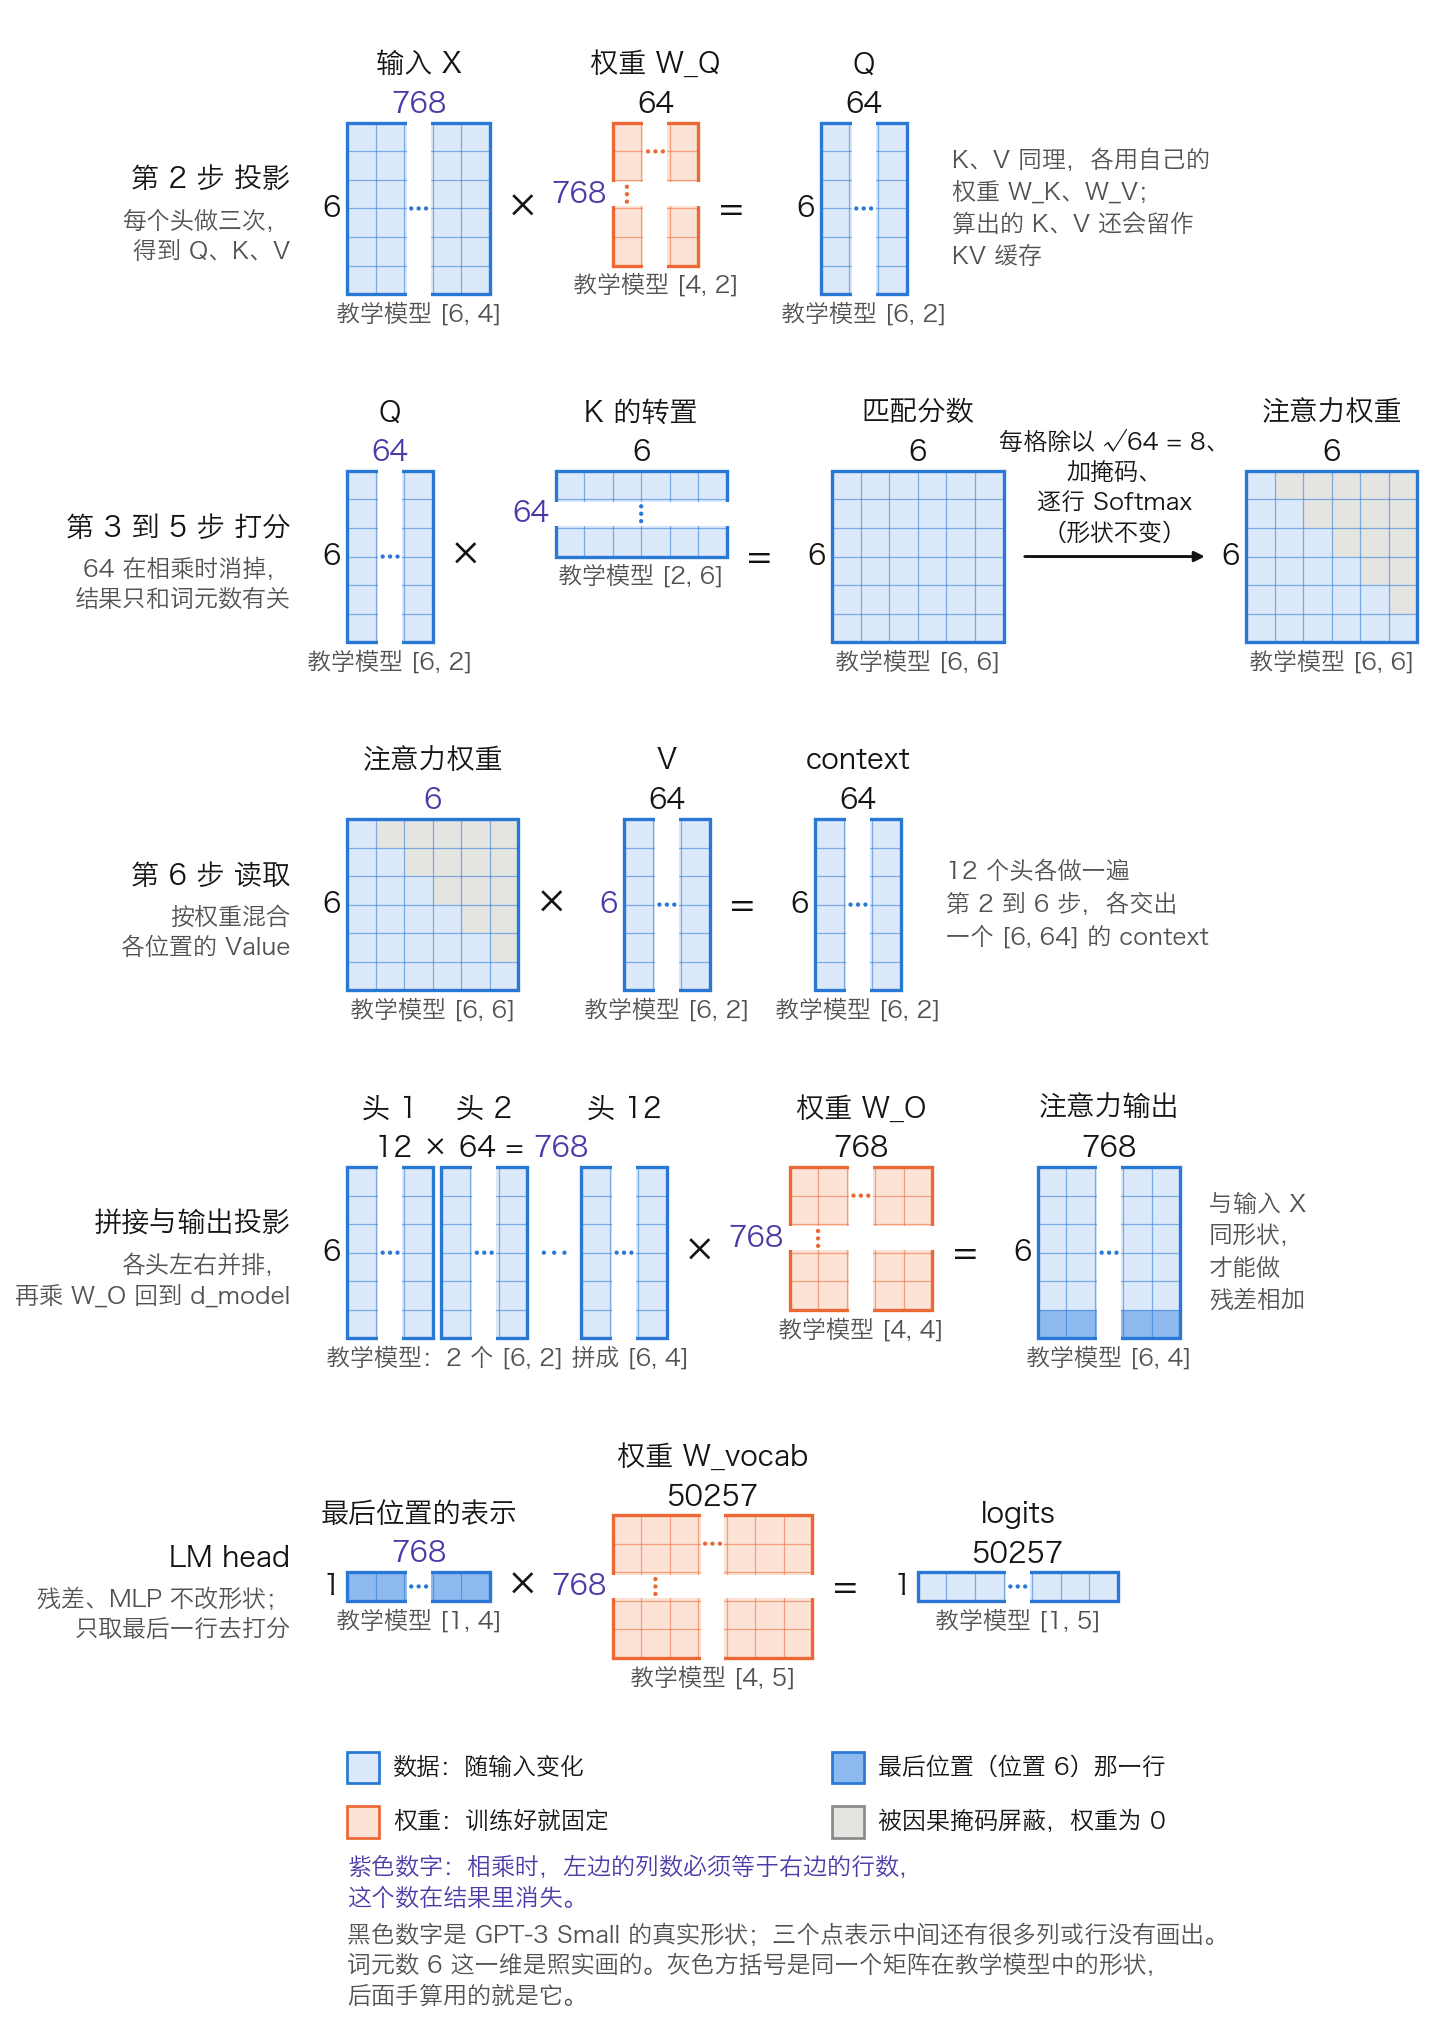
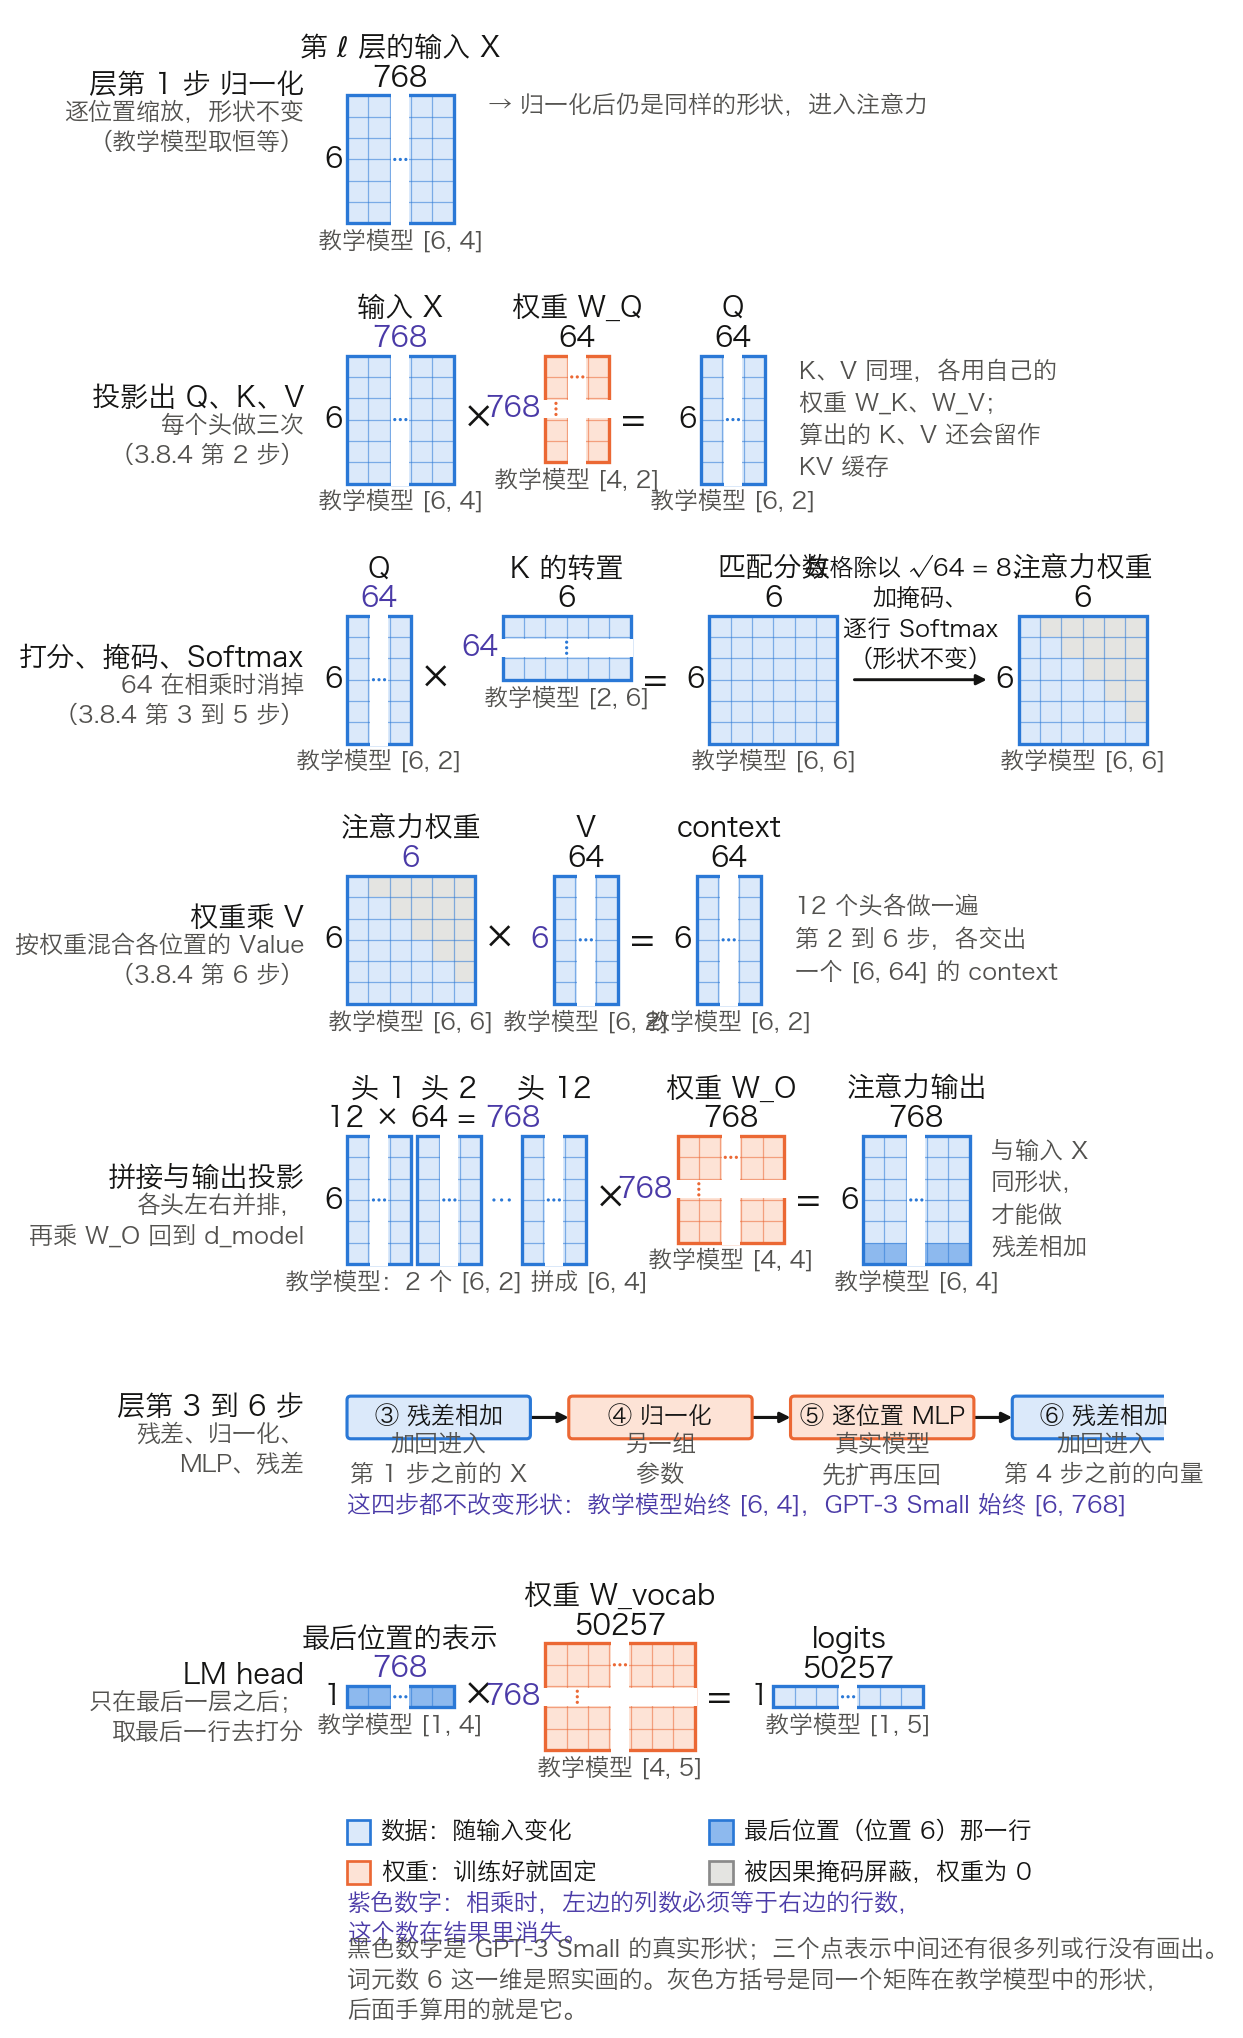
docs(llm): make figure 3-13 cover all six layer steps
The shape figure only drew the attention sublayer and labelled its
actions with the hand-calculation step numbers, so it no longer lined
up with the six-step list above it. Add the leading normalisation and
the four steps that follow attention, and name the actions as the list
does, keeping the hand-calculation number as a parenthetical.

Also fix the two sublayer headings in the shape list, which lacked a
preceding blank line and were being absorbed into the previous list
item.

diff --git a/tools/figures/attention_shape_flow.py b/tools/figures/attention_shape_flow.py
@@ -17,8 +17,8 @@ from dataclasses import dataclass
 import matplotlib.pyplot as plt
 from matplotlib.patches import Circle, Polygon, Rectangle
 
-from _diagram import (ACCENT as MATCH, DATA_EDGE, DATA_FACE, DATA_STRONG as LAST_ROW_FACE,
-                      INK, MASK_FACE, MUTED, WEIGHT_EDGE, WEIGHT_FACE)
+from _diagram import (ACCENT, ACCENT as MATCH, DATA_EDGE, DATA_FACE, DATA_STRONG as LAST_ROW_FACE,
+                      INK, MASK_FACE, MUTED, WEIGHT_EDGE, WEIGHT_FACE, arrow, box, label)
 from _style import image_path, use_cjk_font
 
 OUTPUT = image_path("03_components", "attention_shape_flow.png")
@@ -164,9 +164,16 @@ def main() -> None:
     c = Canvas(ax)
     x0 = X0
 
-    # ---- 第 2 步：投影 ----
+    # ---- 层第 1 步：归一化 ----
     top = 0.0
-    c.step(top, 6, "第 2 步 投影", "每个头做三次，\n得到 Q、K、V")
+    c.step(top, 1, "层第 1 步 归一化", "逐位置缩放，形状不变\n（教学模型取恒等）")
+    x = c.matrix(x0, top, T6, D_MODEL, "第 $\\ell$ 层的输入 X", "教学模型 [6, 4]")
+    label(ax, x + 1.6, top - 0.5, "→ 归一化后仍是同样的形状，进入注意力", ha="left",
+          fontsize=FS_NOTE, color=MUTED)
+    top -= 6 + ROW_GAP
+
+    # ---- 层第 2 步（内部）：投影 ----
+    c.step(top, 6, "投影出 Q、K、V", "每个头做三次\n（3.8.4 第 2 步）")
     x = c.matrix(x0, top, T6, D_MODEL, "输入 X", "教学模型 [6, 4]", match_cols=True)
     x = c.op(x, top, 6, "×")
     x = c.matrix(x, top, D_MODEL, D_HEAD, "权重 W_Q", "教学模型 [4, 2]",
@@ -177,7 +184,7 @@ def main() -> None:
 
     # ---- 第 3 到 5 步：打分、掩码、Softmax ----
     top -= 6 + ROW_GAP
-    c.step(top, 6, "第 3 到 5 步 打分", "64 在相乘时消掉，\n结果只和词元数有关")
+    c.step(top, 6, "打分、掩码、Softmax", "64 在相乘时消掉\n（3.8.4 第 3 到 5 步）")
     x = c.matrix(x0, top, T6, D_HEAD, "Q", "教学模型 [6, 2]", match_cols=True)
     x = c.op(x, top, 6, "×")
     x = c.matrix(x, top, D_HEAD, T6, "K 的转置", "教学模型 [2, 6]", match_rows=True)
@@ -189,7 +196,7 @@ def main() -> None:
 
     # ---- 第 6 步：读取 Value ----
     top -= 6 + ROW_GAP
-    c.step(top, 6, "第 6 步 读取", "按权重混合\n各位置的 Value")
+    c.step(top, 6, "权重乘 V", "按权重混合各位置的 Value\n（3.8.4 第 6 步）")
     x = c.matrix(x0, top, T6, T6, "注意力权重", "教学模型 [6, 6]",
                  lower_tri=True, match_cols=True)
     x = c.op(x, top, 6, "×", gap_after=3.7)
@@ -220,9 +227,27 @@ def main() -> None:
                  highlight_last_row=True)
     c.note(x + 1.0, top - 3, "与输入 X\n同形状，\n才能做\n残差相加")
 
-    # ---- LM head ----
+    # ---- 层第 3 到 6 步：残差、归一化、MLP、残差 ----
     top -= 6 + ROW_GAP
-    c.step(top, 5, "LM head", "残差、MLP 不改形状；\n只取最后一行去打分")
+    c.step(top, 3, "层第 3 到 6 步", "残差、归一化、\nMLP、残差")
+    bw, gap = 8.6, 1.8
+    steps = [("③ 残差相加", "加回进入\n第 1 步之前的 X", "data"),
+             ("④ 归一化", "另一组\n参数", "weight"),
+             ("⑤ 逐位置 MLP", "真实模型\n先扩再压回", "weight"),
+             ("⑥ 残差相加", "加回进入\n第 4 步之前的向量", "data")]
+    bx = x0
+    for k, (name, note, kind) in enumerate(steps):
+        box(ax, bx, top - 2.0, bw, 2.0, name, kind, fontsize=FS_NOTE)
+        label(ax, bx + bw / 2, top - 3.0, note, fontsize=FS_TOY, color=MUTED, linespacing=1.4)
+        if k < len(steps) - 1:
+            arrow(ax, (bx + bw, top - 1.0), (bx + bw + gap, top - 1.0))
+        bx += bw + gap
+    label(ax, x0, top - 5.1, "这四步都不改变形状：教学模型始终 [6, 4]，GPT-3 Small 始终 [6, 768]",
+          ha="left", fontsize=FS_NOTE, color=ACCENT)
+
+    # ---- LM head ----
+    top -= 5.4 + ROW_GAP
+    c.step(top, 5, "LM head", "只在最后一层之后；\n取最后一行去打分")
     x = c.matrix(x0, top - 2, ONE, D_MODEL, "最后位置的表示", "教学模型 [1, 4]",
                  highlight_last_row=True, match_cols=True)
     x = c.op(x, top, 5, "×")

diff --git a/03_components/3.8_gpt_inference_flow.md b/03_components/3.8_gpt_inference_flow.md
@@ -119,11 +119,11 @@
 - **Q/K/V 的投影矩阵因此不是方阵**，形状是 `[d_model, d_h]`：本节是 `[4, 2]`，GPT-3 Small 是 `[768, 64]`。各头的结果拼接后回到 `n_h × d_h = d_model` 维。
 - **`n_kv` 可以小于 `n_h`。** Llama 3 8B 让 32 个 Query 头共用 8 组 K/V，这就是 GQA（见 [3.7 节](3.7_full_architecture.md)），首次阅读可跳过；本节取 `n_kv = n_h = 2`，每个头各有自己的 K/V。
 
-**先只看形状，不看数字。** 进入手算之前，先把全程走一遍，只盯着每个矩阵是几行几列。图 3-13 按 GPT-3 Small 的真实形状来画（`d_model = 768`，12 个头，每头 `d_h = 64`，词表 50,257）：词元数 6 这一维照实画出，所以 `[6, 6]` 的分数矩阵和因果掩码的阶梯是完整的；768、64、50257 这些太大的维度用省略号截断。每个矩阵下方的灰色方括号，是它在教学模型里的形状，后面手算用的就是这一组小数字。
+**先只看形状，不看数字。** 进入手算之前，先把六步走一遍，只盯着每个矩阵是几行几列。图 3-13 与表 3-16 同序：第 1 步归一化在最上，第 2 步注意力占中间四行，第 3 到 6 步并排在下方，最后是只在末层才做的 LM head。图按 GPT-3 Small 的真实形状来画（`d_model = 768`，12 个头，每头 `d_h = 64`，词表 50,257）：词元数 6 这一维照实画出，所以 `[6, 6]` 的分数矩阵和因果掩码的阶梯是完整的；768、64、50257 这些太大的维度用省略号截断。每个矩阵下方的灰色方括号，是它在教学模型里的形状，后面手算用的就是这一组小数字。
 
 ![一层注意力计算中各矩阵的形状变化](_images/attention_shape_flow.png)
 
-图 3-13：一层注意力计算中，各矩阵的形状怎样一步步变化；黑色和紫色数字是 GPT-3 Small 的形状，其中紫色是相乘时消掉的那一维，灰色方括号是教学模型的形状（[生成脚本](https://github.com/yeasy/llm_internals/blob/main/tools/figures/attention_shape_flow.py)）。蓝色的数据矩阵里，第 i 行对应位置 i，最后一行对应 Prompt 的最后位置 6（“K 的转置”例外，它是列对应位置）；橙色的权重矩阵里，行对应输入向量的各维。context 指每个位置“读到的上下文向量”，3.8.4 的第 6 步给出定义。
+图 3-13：一层计算中各矩阵的形状怎样一步步变化，自上而下就是表 3-16 的六步；黑色和紫色数字是 GPT-3 Small 的形状，其中紫色是相乘时消掉的那一维，灰色方括号是教学模型的形状（[生成脚本](https://github.com/yeasy/llm_internals/blob/main/tools/figures/attention_shape_flow.py)）。蓝色的数据矩阵里，第 i 行对应位置 i，最后一行对应 Prompt 的最后位置 6（“K 的转置”例外，它是列对应位置）；橙色的权重矩阵里，行对应输入向量的各维。context 指每个位置“读到的上下文向量”，3.8.4 的第 6 步给出定义。
 
 读这张图只需要一条规则：矩阵相乘时，左边的列数必须等于右边的行数，这个相等的数在结果里消失，结果取左边的行数和右边的列数。下面按表 3-16 的六步列出每一步的形状，写成“左边的名字和形状 × 右边的名字和形状 → 结果的名字和形状”，两种规模并列。用到的参数是：
 
@@ -145,6 +145,7 @@
   - 权重乘 V（矩阵乘法）：教学 `权重[6, 6] × V[6, 2] → context[6, 2]`；GPT-3 Small `权重[6, 6] × V[6, 64] → context[6, 64]`。
   - 拼接各头的 context，再乘输出投影：教学 2 个 `[6, 2]` 拼成 `[6, 4]`，再 `× W_O[4, 4] → 注意力输出[6, 4]`；GPT-3 Small 12 个 `[6, 64]` 拼成 `[6, 768]`，再 `× W_O[768, 768] → 注意力输出[6, 768]`。
 - **层第 3 步：残差相加**（加的是进入第 1 步之前的向量）：教学 `X[6, 4] + 注意力输出[6, 4] → [6, 4]`；GPT-3 Small 同理，宽度换成 768。
+
 **MLP 子层（第 4 到 6 步）**
 
 - **层第 4 步：归一化**（另一组参数；教学模型同样取恒等）。两种规模都是形状不变。
